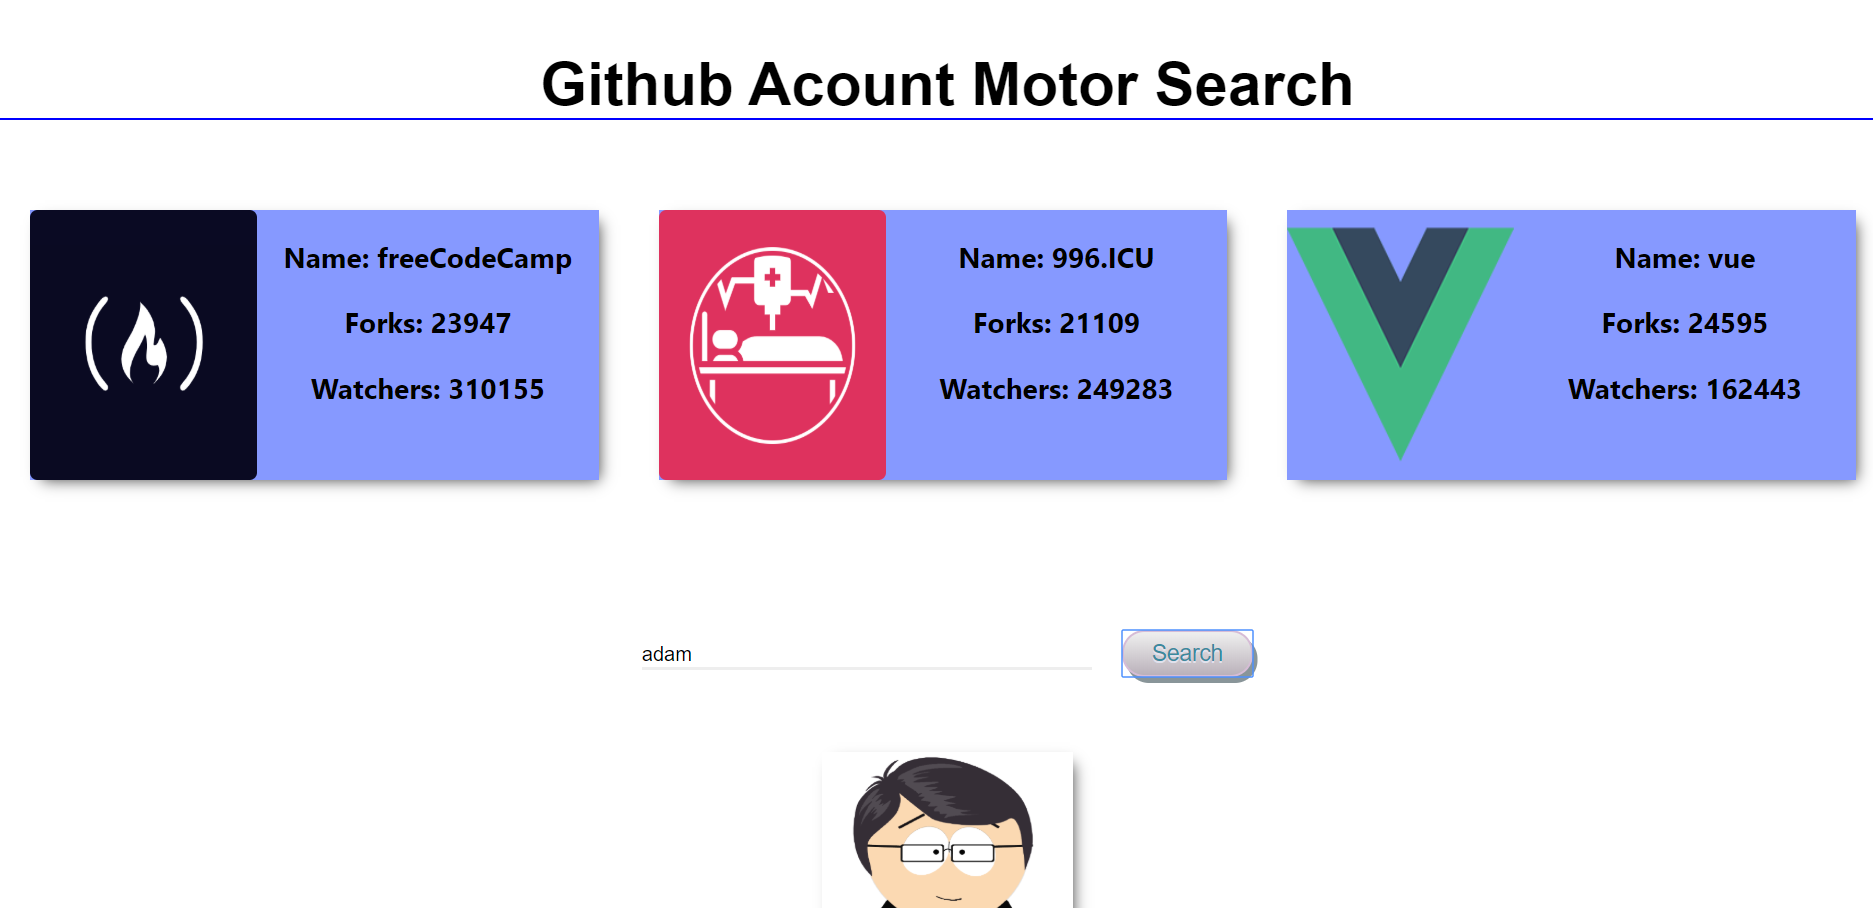
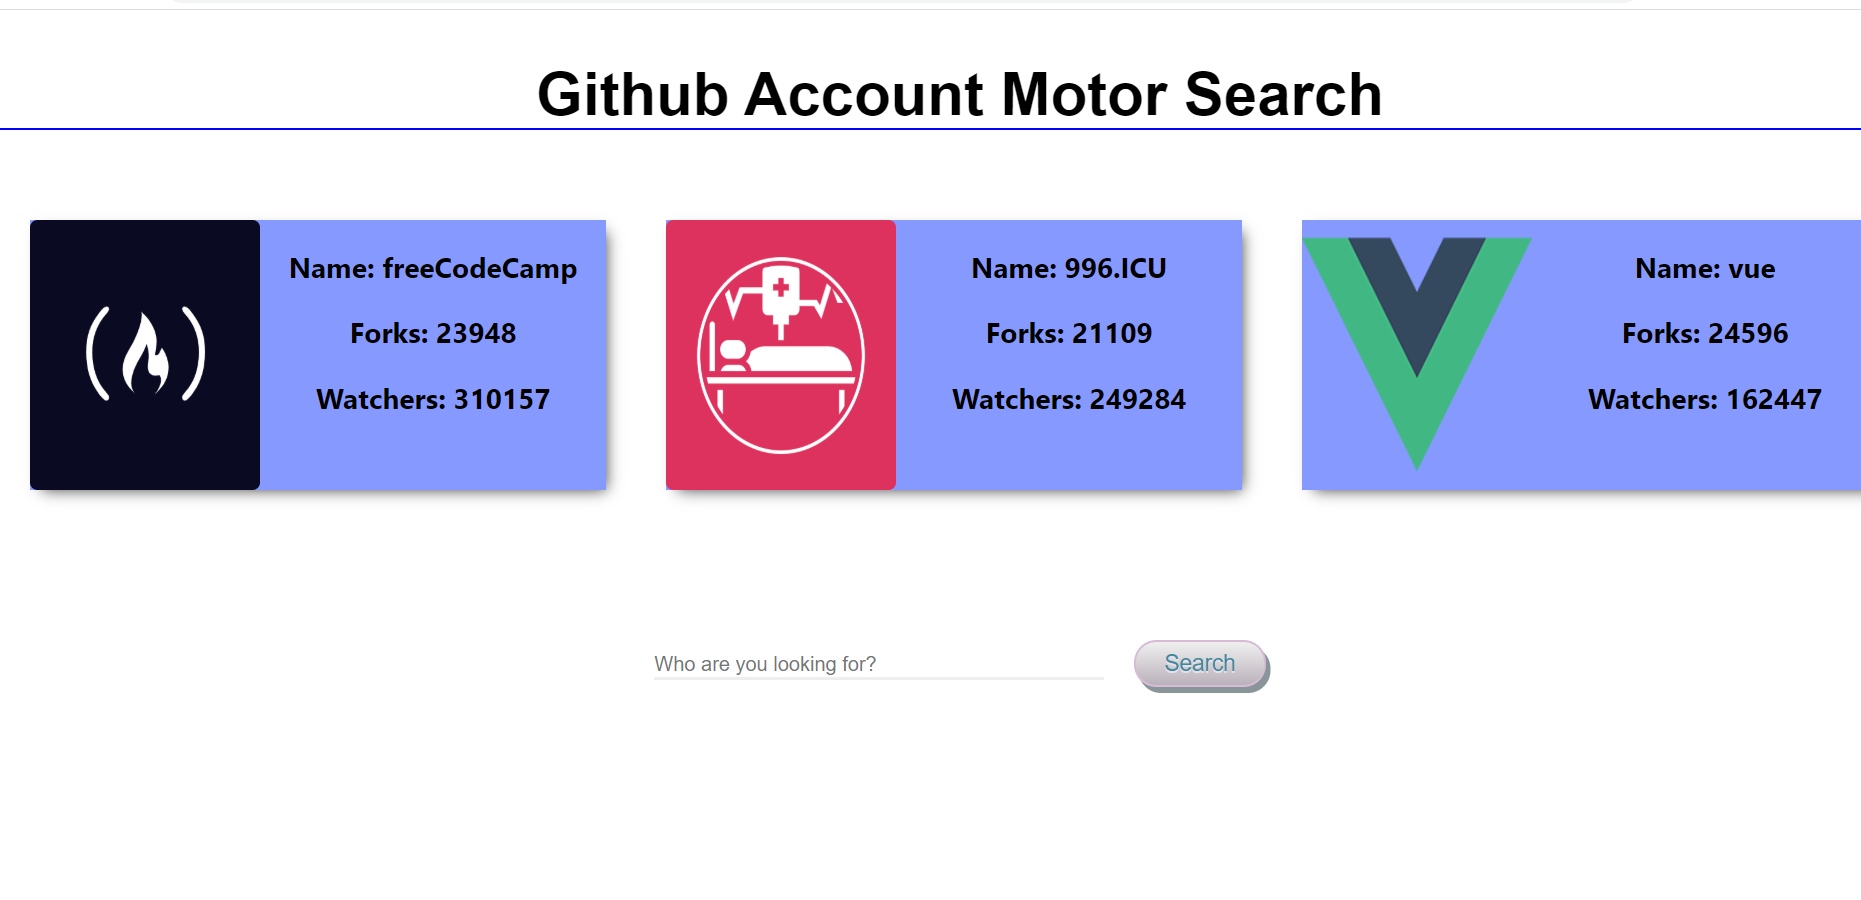
readme pic

diff --git a/Client/app/src/App.js b/Client/app/src/App.js
@@ -6,7 +6,7 @@ import './App.css';
 function App() {
   return (
     <div className="App">
-      <h2 className="title">Github Acount Motor Search</h2>
+      <h2 className="title">Github Account Motor Search</h2>
       <Stars />
       <Rep />
     </div>
